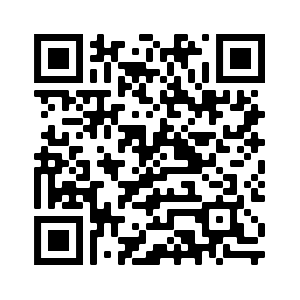
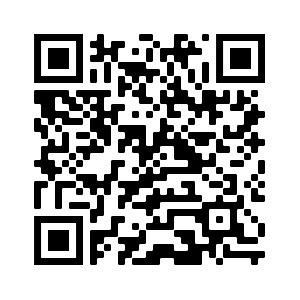
updating qr-code and adding flavor to sms message

Changed region(s): [[0.09, 0.3, 0.39, 0.87], [0.6, 0.84, 0.66, 0.9], [0.54, 0.78, 0.6, 0.84]]

diff --git a/api/index.js b/api/index.js
@@ -79,7 +79,7 @@ const resolvers = {
             try {
                 const message = await client.messages
                     .create({
-                        body: `FREESCOOP${phoneNumbersList.length}`,
+                        body: `Your free ice cream code is: \nFREESCOOP${phoneNumbersList.length}`,
                         to: `+1${phoneNumber}`, // Text this number
                         from: twilioPhoneNumber, // From a valid Twilio number
                     });
